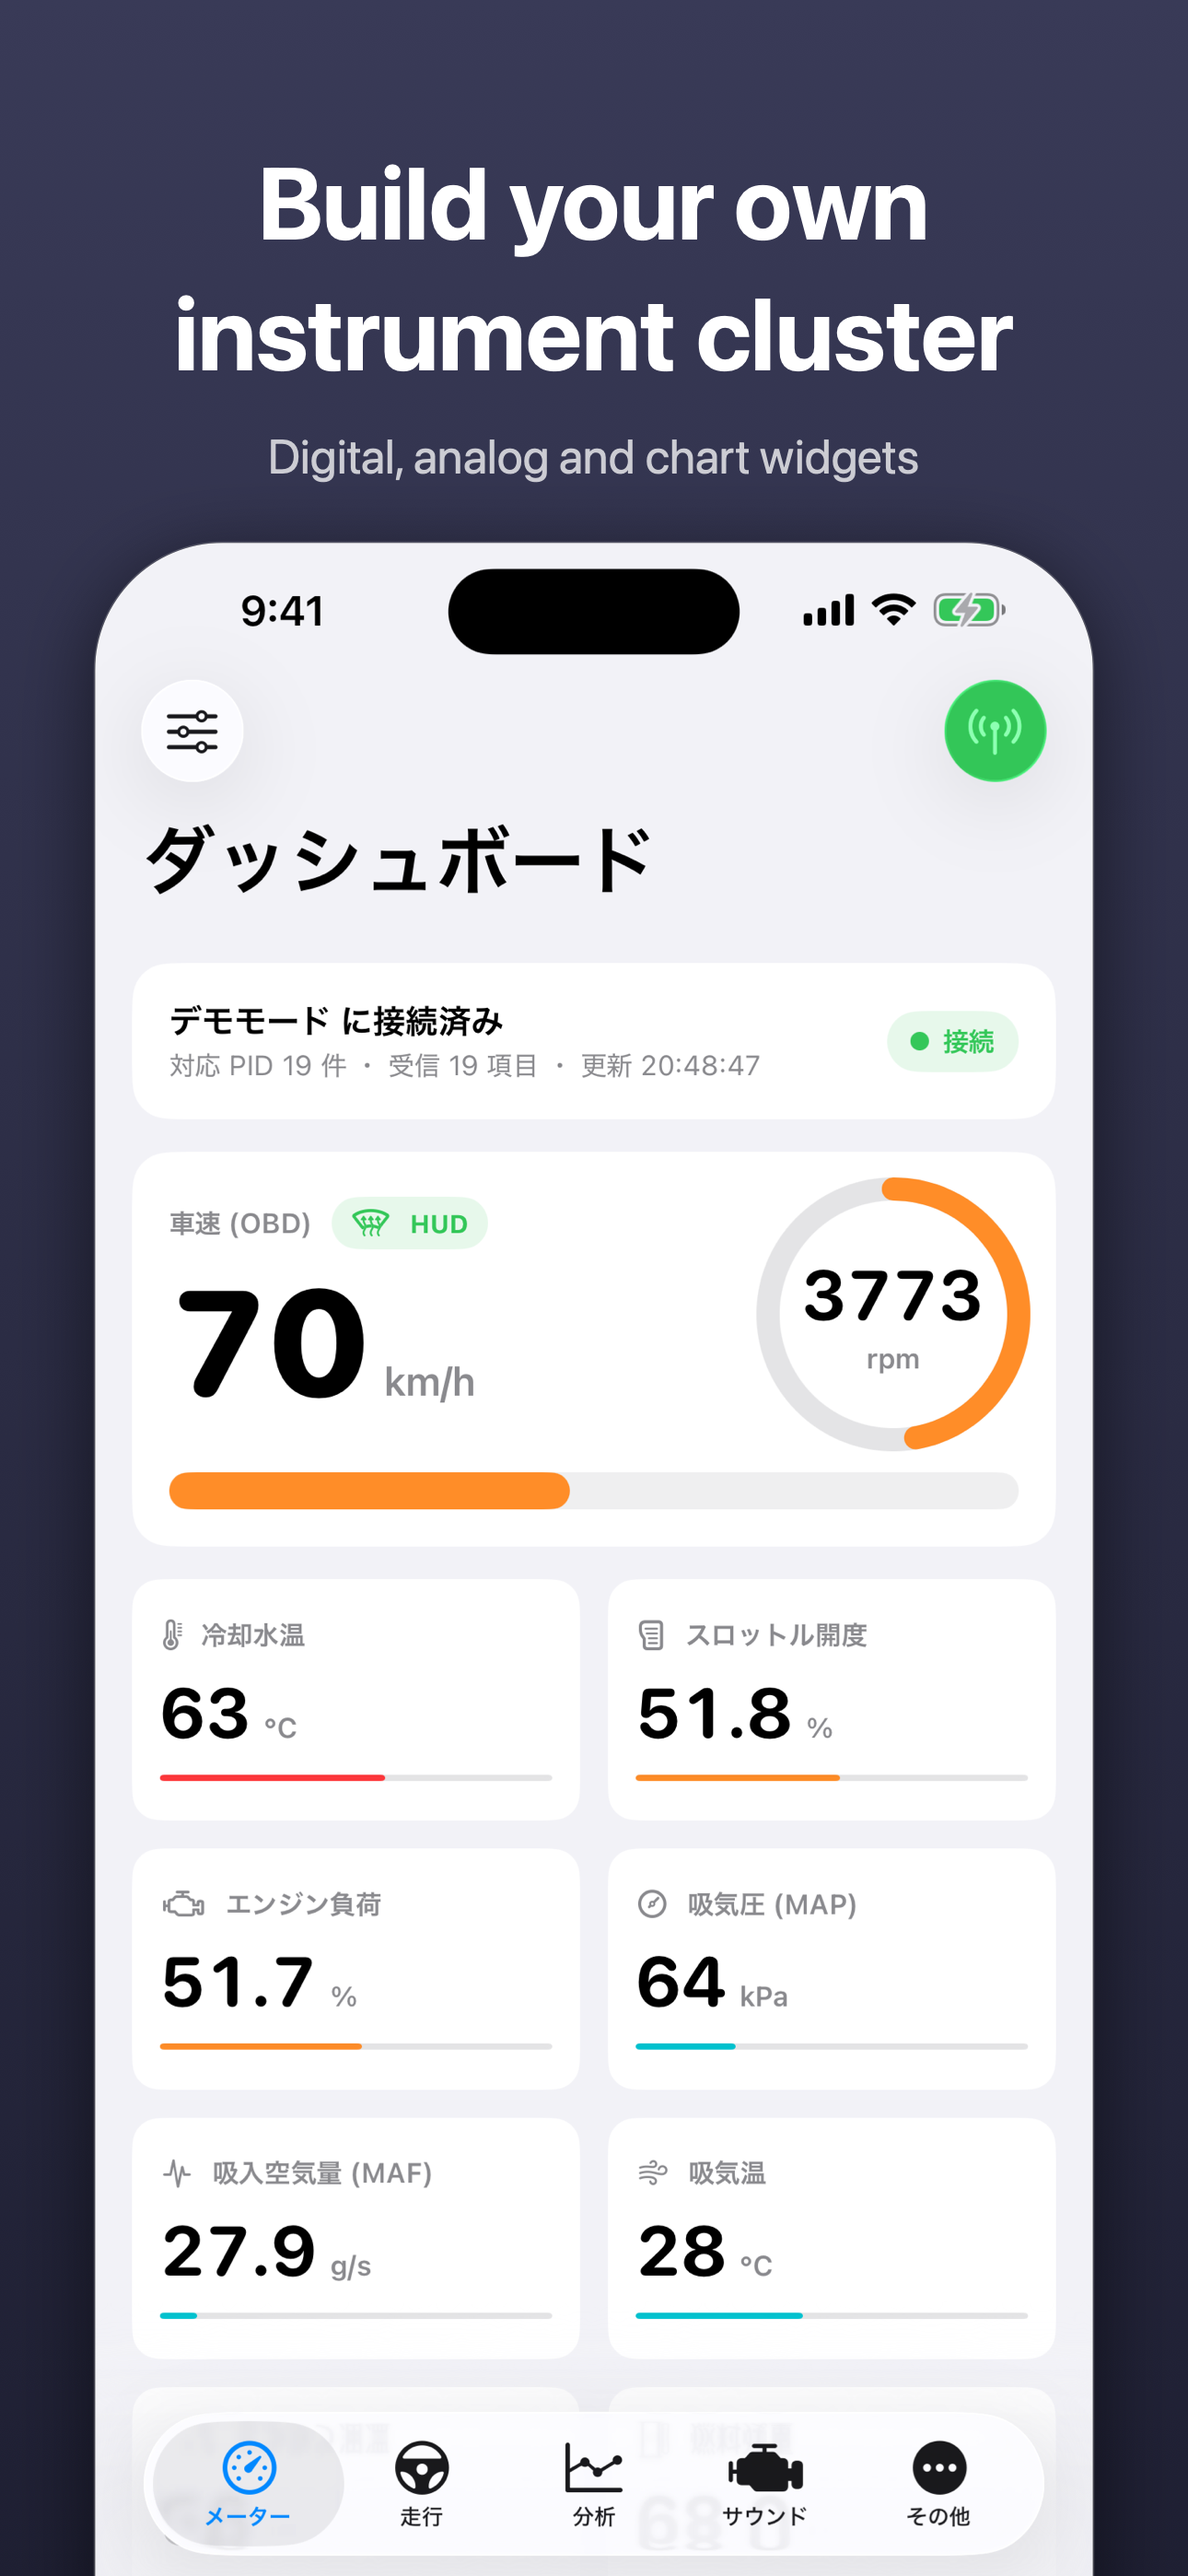
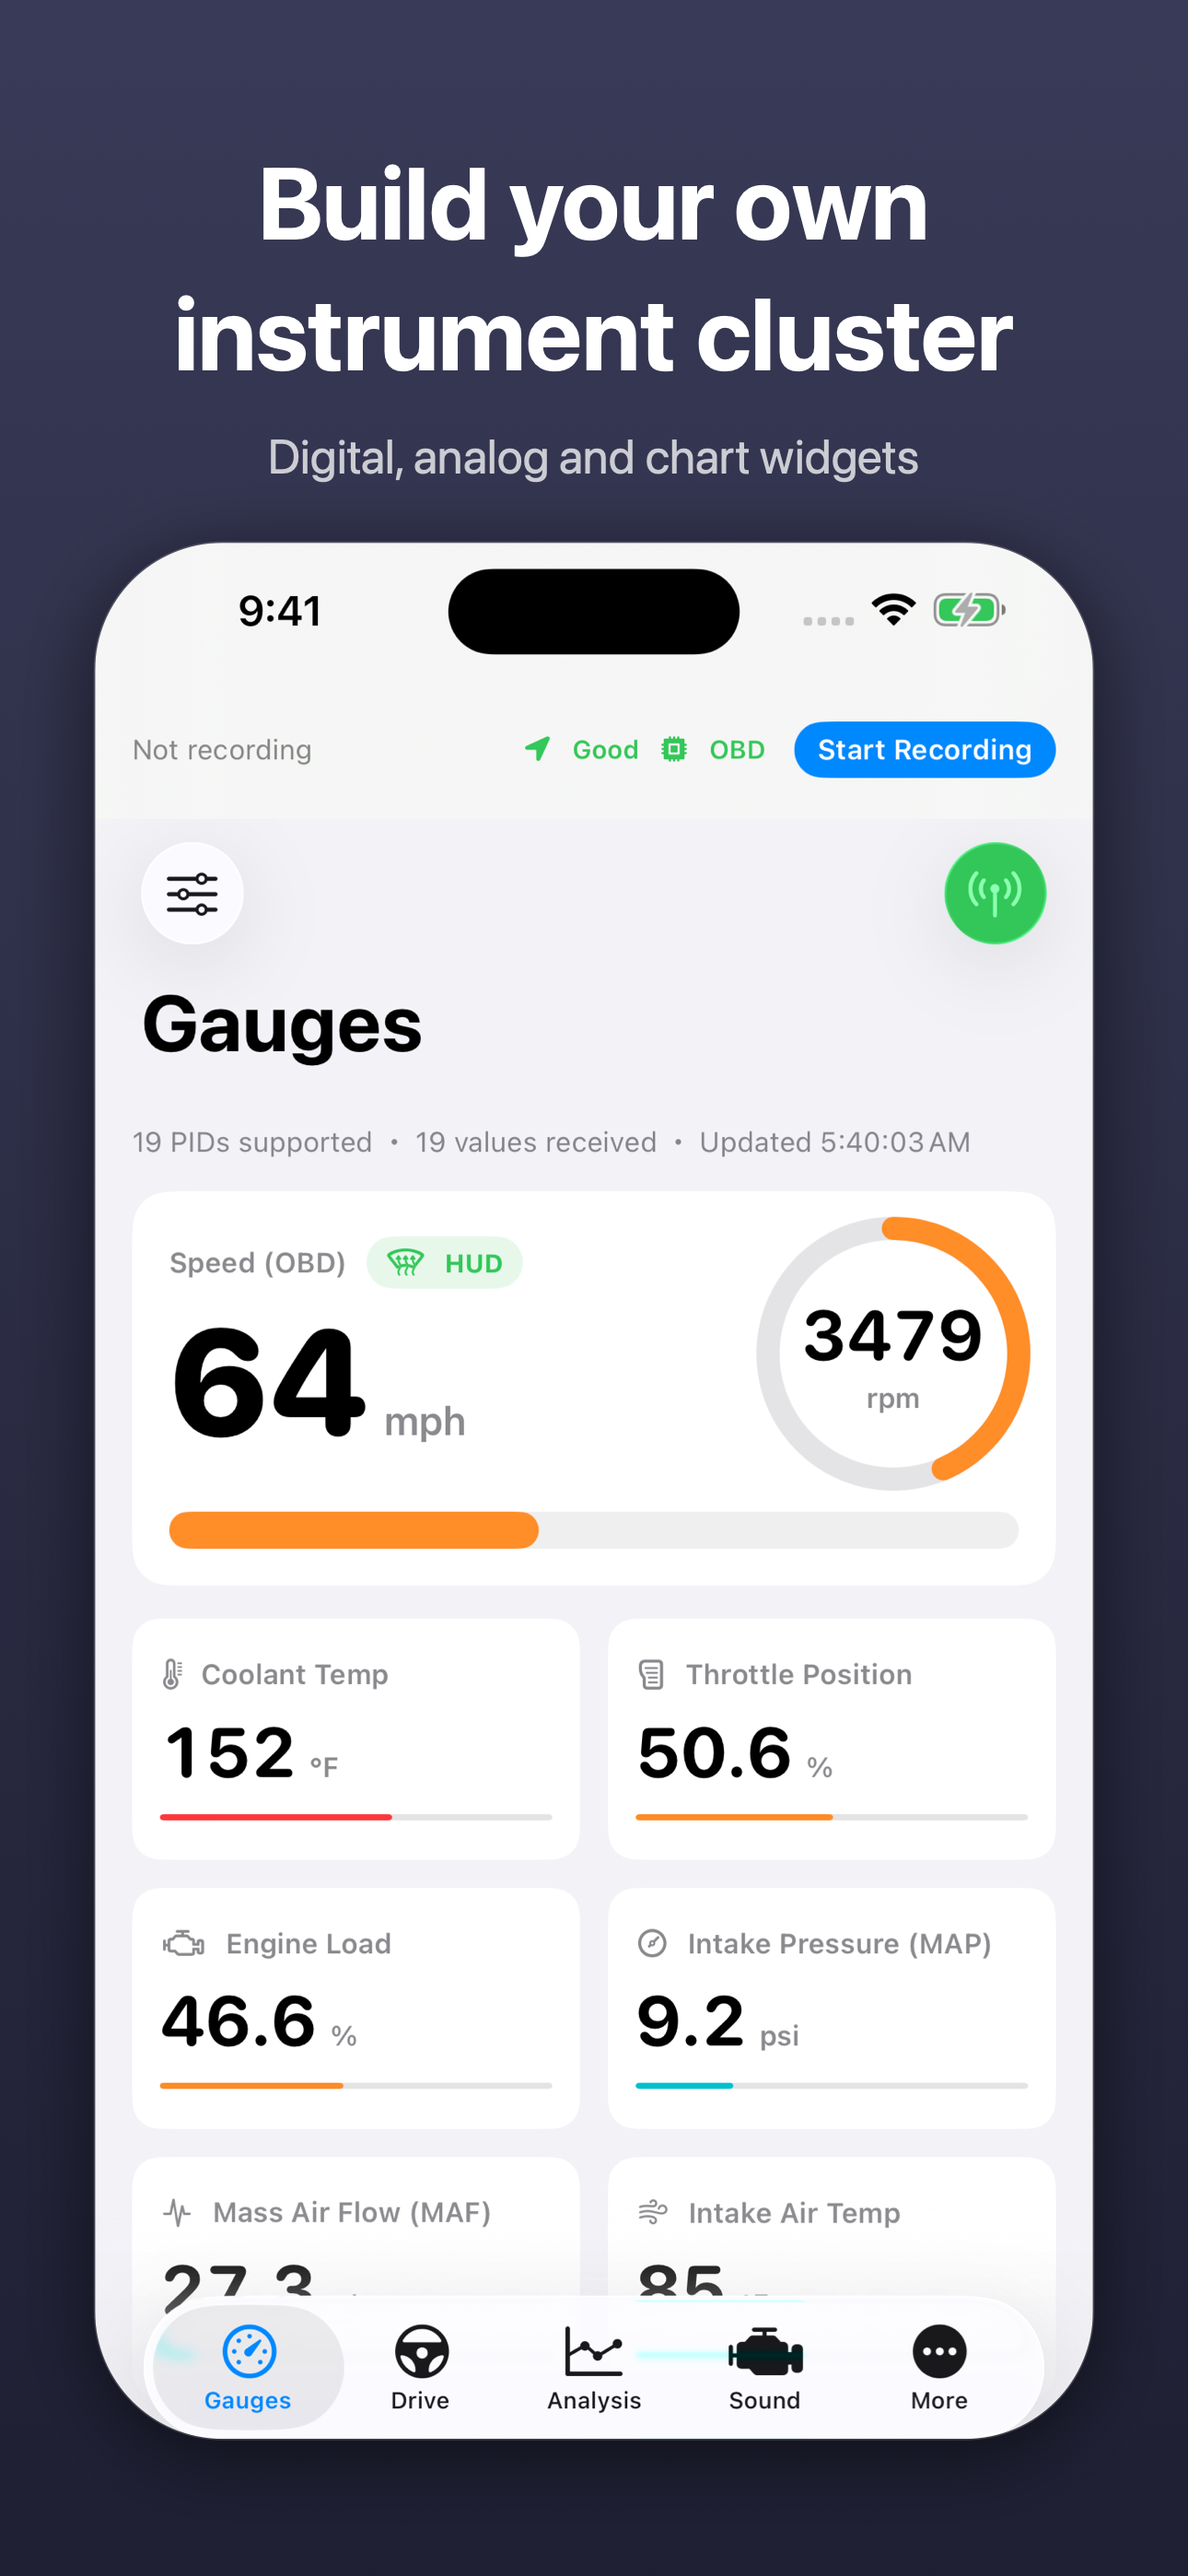
en-US スクショを全面撮り直し(日本語 UI と km/h の解消)
従来の en-US スクショは見出しだけ英語で、中の端末画面は全部
日本語 UI だった。最大市場である US のストアで日本語アプリに
見えていた(2026-07-16 監査 10.1 の指摘が、アプリの多言語化
だけ済んでスクショに反映されていなかった)。

- 5 枚を en_US 地域で撮り直し: 英語 UI + mph/°F/psi/mpg、
  地図の凡例も 9〜62 mph
- 見出し・キャプションは既存から復元して踏襲。05 のみ
  "0-100 timing" → "acceleration timing"(本体が 0-62 mph
  表示になり旧見出しが事実と食い違うため)
- keywords: lint 指摘の重複 `obd` を削除し `油温` を追加
- ocr-check 禁止語 0 / store_lint の寸法チェック 5 枚とも OK
- ASC の 1.0.2 へメタデータ再反映 + スクショ 5 枚アップロード済み

撮影レシピと踏んだ罠は store/ASO_NOTES.md と
_AI_AGENT_NOTES/simulator-device.md に記録。

Claude-Session: https://claude.ai/code/session_018mZTj8jKvVJa5oTjqUSHyS

diff --git a/store/ASO_NOTES.md b/store/ASO_NOTES.md
@@ -25,7 +25,7 @@
 - 判明した事実: **`obd2 日本語` は App Store の実サジェスト語**(需要あり)だが、ja の name / subtitle / keywords のどこにも「日本語」が無く、**構造的にヒットしない**状態だった。keywords 欄も 100 字中 49 字しか使っていなかった。2026-07-13 のポジショニングで「日本語 OBD が薄い(空白地帯)」と穴を特定済みだったのに、メタデータへ落とし込まれていなかった。
 - 変更:
   - subtitle: `ELM327メーター・買い切り・サブスクなし`(22字) → `日本語のELM327メーター・買い切り・サブスクなし`(26字)。既存語を捨てずに「日本語」を追加。name の `OBD2` と組み合わさって `OBD2 日本語` が引ける想定。
-  - keywords: 49字 → 70字。追加 `obd`(OBD2 から obd 単独でマッチしない可能性への保険) / `対応`(「日本語対応」組み合わせ用) / `記録`,`csv`(Pro の実際の売り = CSV無制限・記録保存をストア側でも検証する枠) / `タコメーター`。
+  - keywords: 49字 → 69字。追加 `対応`(「日本語対応」組み合わせ用) / `記録`,`csv`(Pro の実際の売り = CSV無制限・記録保存をストア側でも検証する枠) / `タコメーター` / `油温`。(当初 `obd` も入れたが、name の `OBD2` と重複で lint NG のため同日削除)
   - `日本語` は subtitle に置いたので keywords 側では重複排除(2026-07-13 の方針を踏襲)。
 - 見送り: 「診断」「故障」「エラーコード」系語(2026-08-09 の分析どおり、DTC は実車未検証+2.3.7 リジェクト前例のため継続して不採用)。
 - 制約: name/subtitle/keywords は新バージョンを作らないと編集できない(随時変更可なのは promotional text のみ)。App Store 公開版は 1.0.1 のままで ASC に 1.0.2 のレコードが無い(build 39 は VALID で待機)。**この ASO 変更は 1.0.2 の提出に相乗りさせる**。
@@ -34,3 +34,16 @@
 | 日付 | ストア | 検索語 | 順位 | メモ |
 |---|---|---|---|---|
 | 2026-08-17 | JP | OBD2 日本語 | **圏外(実測)** | 変更前ベースライン。App Store アプリで手動検索し car_ui は表示されずを確認。「日本語」が name/subtitle/keywords のどこにも無いという説明と一致。1.0.2 反映後に同じ手順で再測定 |
+
+## 2026-08-17 en-US スクショ全面撮り直し(単位系対応+日本語 UI の解消)
+- **判明した重大な問題**: 従来の en-US スクショは**見出しだけ英語で、中の端末画面は全部日本語 UI** だった(「ダッシュボード」「冷却水温」「サウンド開始」がそのまま写っていた)。最大市場である US のストアで日本語アプリに見えていた。2026-07-16 監査の 10.1 で指摘されていたが、アプリの多言語化(完了済み)だけ行われスクショは放置されていた。
+- 撮り直し: iPhone 15 Pro Max / iOS 26.0 / 地域 en_US。英語 UI + mph・°F・psi・mpg。見出し・キャプションは既存 5 枚から復元してそのまま踏襲(方針 A)。
+- **1 本だけ変更**: 05 の見出し `Trip economy and 0-100 timing` → `Trip economy and acceleration timing`。単位系対応で本体表示が「0-62 mph Timer」になり、旧見出しは事実と食い違うため(2.3.7 で一度リジェクトされた前例があるカテゴリ)。
+- keywords: lint 指摘により `obd` を削除(name の `OBD2` と重複=枠の無駄)。代わりに `油温` を追加(`水温` はあったが油温は未カバー)。69/100 字。
+- 残る lint NG 2 件(`description` の「無料」「free」)は 1.0.1 から存在し、root CLAUDE.md の「価格は description のみ可」に沿った意図的なもの。lint 側が過剰。
+
+### 撮影レシピ(次回そのまま使える)
+- 撮影専用シミュレータを新規 create し、**アプリを一度も起動しないうちに** `simctl privacy grant location` する(起動後だと iOS 26 ではダイアログが消えずタップできない → `_AI_AGENT_NOTES/simulator-device.md`)。
+- 地図は `simctl location set 34.6700,135.5014`(御堂筋)+ `track.json` をコンテナへ seed。位置を設定せずに起動するとアプリが Cupertino の点を軌跡に追記し、地図が太平洋まで引きになる。
+- 起動引数: `-uiDemo 1 -uiDemoName "ELM327 v2.3" -uiTab N`。分析タブのセグメントは `-analysisSection N`(@AppStorage を NSArgumentDomain で上書き)。
+- 広告バナーは生スクショの下端に写るので、合成前に**上端基準で** 2450px に切る。`sips -c` は `--cropOffset 0 0` を付けても中央基準で切ってしまい、ステータスバーが落ちてバナーが残る。

diff --git a/done.md b/done.md
@@ -433,3 +433,14 @@
 - push 前の Release ビルドで、今回の変更が持ち込んだ iOS 26 非推奨 API を 2 件検出して解消(`Text + Text` → 文字列補間 / `UIScreen.main` → foregroundActive な windowScene の screen)。**Debug ビルドでは出ない警告**なので、クラウドビルドを回す前に Release で見ておくと安い。
 - push(`c166bff..e9dd539`)→ Xcode Cloud で **build 40 VALID**。ASC の 1.0.2 に紐付け済み(`PATCH /v1/appStoreVersions/{id}/relationships/build`)。
 - 1.0.2 の状態: バージョン作成済み / メタデータ反映済み / build 40 紐付け済み。**残りは en-US スクショの撮り直しと審査提出のみ**。
+
+## 2026/08/17 (en-US スクショ全面撮り直し → ASC アップロード)
+- **見つけた重大な問題**: 従来の en-US スクショは**見出しだけ英語で中の画面が全部日本語 UI** だった(「ダッシュボード」「冷却水温」「サウンド開始」が写っていた)。km/h より深刻で、最大市場 US のストアで日本語アプリに見えていた。2026-07-16 監査 10.1 の指摘が、アプリ側の多言語化だけ済んでスクショに反映されていなかった。
+- 撮り直し 5 枚(iPhone 15 Pro Max / iOS 26.0 / 地域 en_US、Release ビルド): 英語 UI + `64 mph` / `152 °F` / `9.2 psi` / `34.5 mpg`、地図の凡例も `9〜62 mph`。見出しは既存から復元して踏襲(方針 A)。
+- 05 の見出しだけ `0-100 timing` → `acceleration timing` に変更。単位系対応で本体が「0-62 mph Timer」表示になり、旧見出しが事実と食い違うため(2.3.7 リジェクト前例のあるカテゴリ)。
+- lint: `store_lint.sh` で自分が入れた `obd` が name と重複と出たので削除、`油温` を追加(69/100 字)。`ocr-check.sh` 禁止語 0。ASC へメタデータ再反映 + en-US スクショ 5 枚アップロード完了。
+- 詰まった点(全部 `store/ASO_NOTES.md` の「撮影レシピ」と `_AI_AGENT_NOTES/simulator-device.md` に記録):
+  1. `simctl privacy grant location` はプロンプトを一度出した端末では効かず、ダイアログが消えない(タップ手段が無く 40 分溶かした)→ **撮影専用シミュレータを新規作成し、初回起動前に grant**。
+  2. `simctl location` を設定しないとアプリが Cupertino の点を軌跡に追記し、地図が太平洋まで引きになる。
+  3. `sips -c` は `--cropOffset 0 0` を付けても**中央基準**で切る(ステータスバーが落ち、狙った広告バナーが残る)→ 上端基準の Swift 製クロッパを使う。
+  4. `store_lint.sh` / `ocr-check.sh` は bash / zsh を取り違えると誤検知する(`for F in $FILES` の語分割、`setopt`)。
